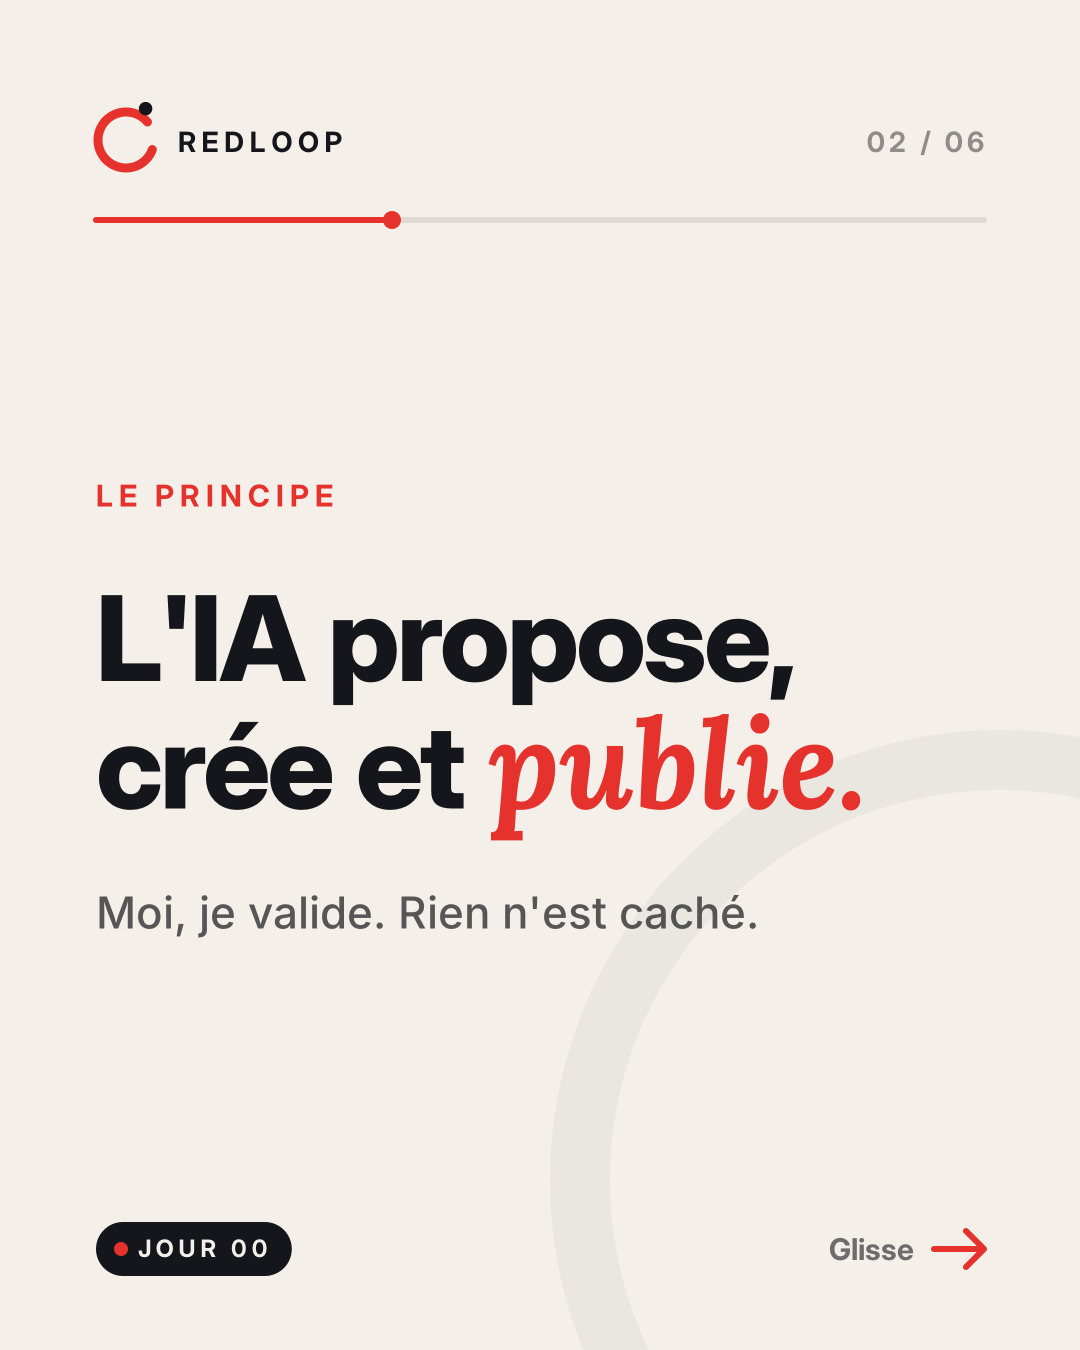
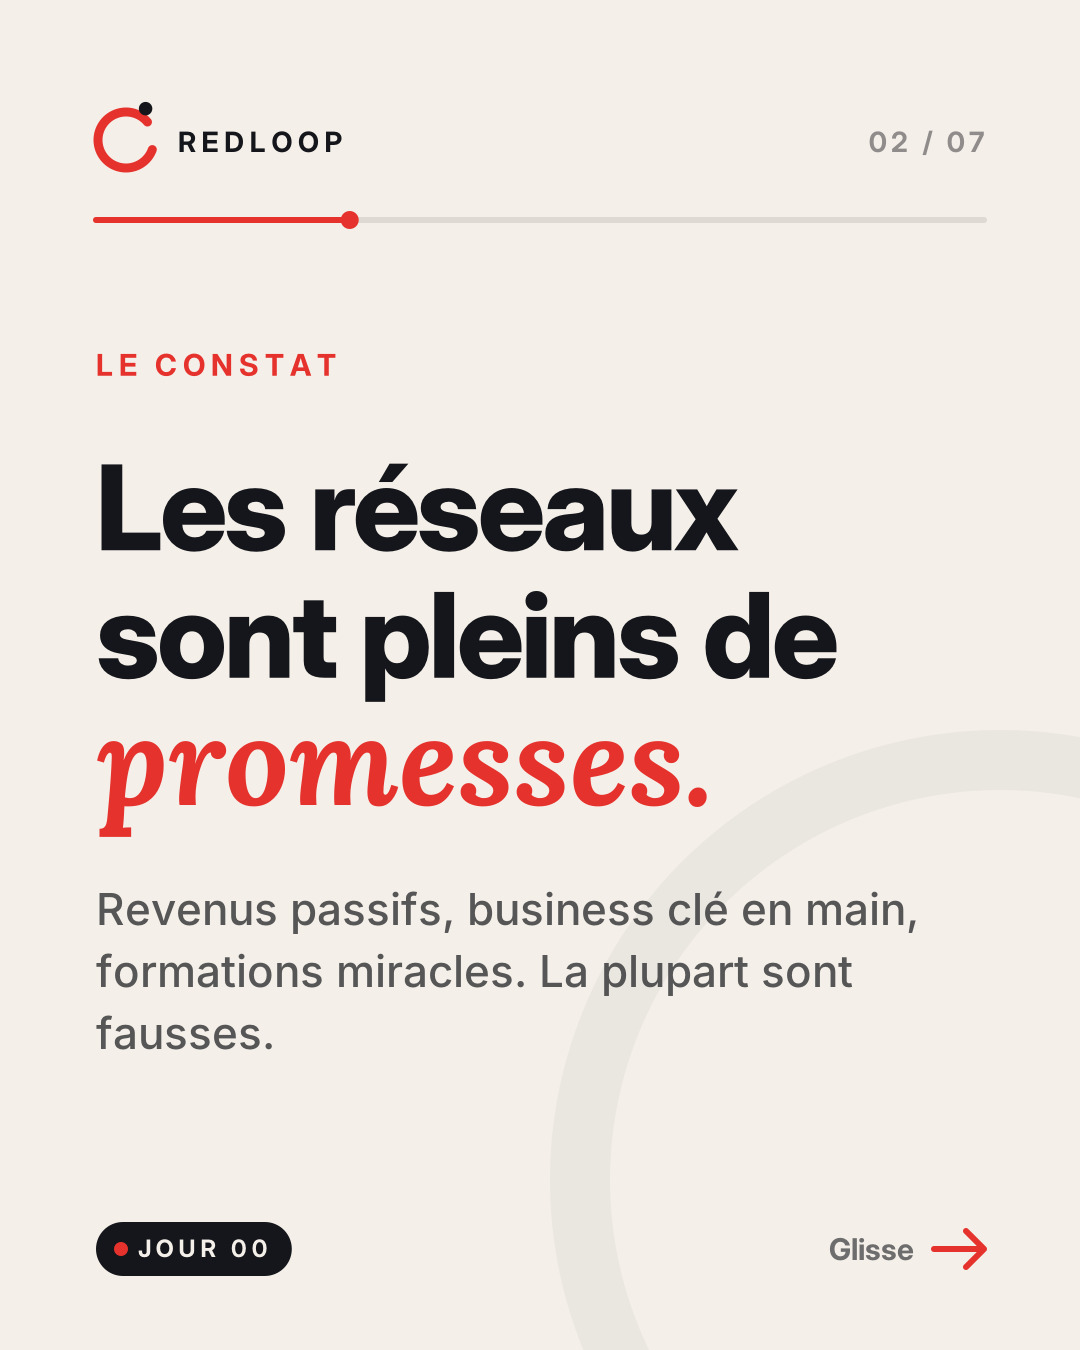
Post 1 rewritten as project manifesto (7 slides)
Claude-Session: https://claude.ai/code/session_01MjHNHLtyk6pBPoVN5YbS1c

diff --git a/motion/carousel_post1.py b/motion/carousel_post1.py
@@ -1,0 +1,13 @@
+import sys; sys.path.insert(0, "/home/claude/motion")
+from carousel_erreurs import *
+POST1 = [
+ T("", ["On lance", "un business", "*en~direct.*"], "Avec une IA, de zéro, et les vrais chiffres. Rien de caché.", 130),
+ T("LE CONSTAT", ["Les réseaux", "sont pleins de", "*promesses.*"], "Revenus passifs, business clé en main, formations miracles. La plupart sont fausses."),
+ T("NOTRE OBJECTIF", ["Construire", "quelque chose", "de *concret.*"], "Ensemble, étape par étape. Pas de théorie : des actions, des résultats, des chiffres."),
+ P("CE QUE TU VERRAS ICI", ["Tout, même", "les *échecs*"], ["Ce qu'on teste, et pourquoi", "Combien ça coûte, combien ça rapporte", "Ce qui marche, et ce qui rate", "Les décisions qu'on prend avec toi"]),
+ T("LA MÉTHODE", ["Le trafic d'abord.", "Le produit", "*ensuite.*"], "Pas de formation à vendre. Pas de business clé en main. On construit l'audience, puis on crée ce qu'elle demande."),
+ T("POINT DE DÉPART", ["Jour *zéro.*"], "0 abonné. 0 produit. 0 €. On commence par démonter les fausses promesses.", 140),
+ T("SUIS L'AVENTURE", ["On le", "construit", "*ensemble ?*"], "Dis-moi en commentaire ce que tu aimerais qu'on lance. Prochain carrousel : les pièges du business clé en main."),
+]
+if __name__ == "__main__":
+    render("post1", POST1, 0, "/home/claude/motion/out/p1", "/home/claude/redloop-visualx/posts")
